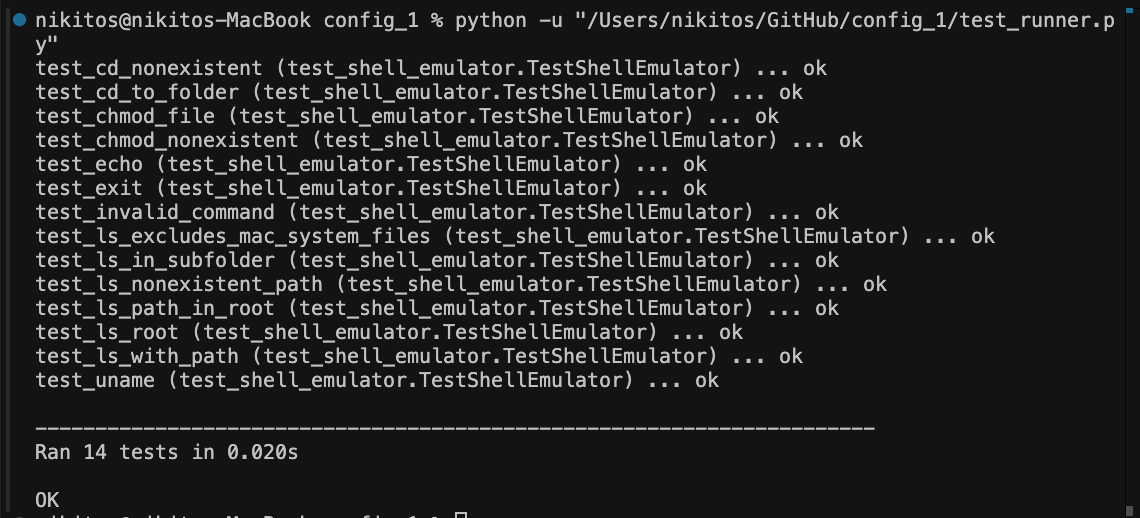
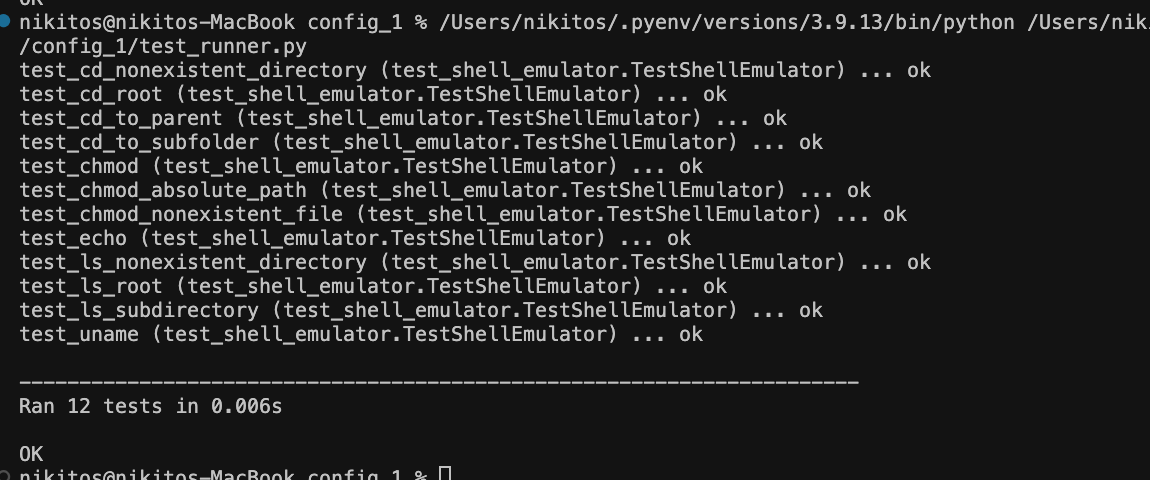
rewrite and rerun the tests

diff --git a/test_shell_emulator.py b/test_shell_emulator.py
@@ -2,20 +2,23 @@ import unittest
 import zipfile
 import yaml
 import os
-import shutil
 from shell_emulator import ShellEmulator
+
 
 class TestShellEmulator(unittest.TestCase):
     @classmethod
     def setUpClass(cls):
         cls.test_fs_zip = 'test_fs.zip'
         cls.config_file = 'test_config.yaml'
-        
+
+        # Создаём zip-файл с тестовой файловой системой
         with zipfile.ZipFile(cls.test_fs_zip, 'w') as zip_ref:
-            zip_ref.writestr('folder/file.txt', 'test content')
-            zip_ref.writestr('folder/subfolder/', '')
-            zip_ref.writestr('__MACOSX/', '')
-        
+            zip_ref.writestr('file1.txt', 'root file')  # Файл в корне
+            zip_ref.writestr('folder/file2.txt', 'folder file')  # Файл в папке
+            zip_ref.writestr('folder/subfolder/file3.txt', 'nested file')  # Файл в подкаталоге
+            zip_ref.writestr('folder/subfolder/', '')  # Пустая папка
+
+        # Создаём конфигурационный файл
         config_data = {
             'username': 'testuser',
             'fs_path': cls.test_fs_zip
@@ -36,55 +39,56 @@ class TestShellEmulator(unittest.TestCase):
             self.shell.exit()
         except FileNotFoundError:
             pass
-    
+
     def test_ls_root(self):
-        self.assertIn('folder', self.shell.ls())
-        self.assertNotIn('__MACOSX', self.shell.ls())
-    
-    def test_ls_with_path(self):
-        self.assertEqual(self.shell.ls('folder'), ['file.txt', 'subfolder'])
-    
-    def test_cd_to_folder(self):
+        expected = ['file1.txt', 'folder']
+        result = self.shell.ls()
+        self.assertEqual(result, expected)
+
+    def test_ls_subdirectory(self):
         self.shell.cd('folder')
-        self.assertEqual(self.shell.current_dir, '/folder')
-    
-    def test_cd_nonexistent(self):
+        expected = ['file2.txt', 'subfolder']
+        result = self.shell.ls()
+        self.assertEqual(result, expected)
+
+    def test_cd_to_subfolder(self):
+        self.shell.cd('folder/subfolder')
+        self.assertEqual(self.shell.current_dir, 'folder/subfolder')
+
+    def test_cd_to_parent(self):
+        self.shell.cd('folder/subfolder')
+        self.shell.cd('..')
+        self.assertEqual(self.shell.current_dir, 'folder')
+
+    def test_cd_root(self):
+        self.shell.cd('folder')
+        self.shell.cd('/')
+        self.assertEqual(self.shell.current_dir, '/')
+
+    def test_echo(self):
+        result = self.shell.echo('Hello', 'world!')
+        self.assertEqual(result, 'Hello world!')
+
+    def test_uname(self):
+        result = self.shell.uname()
+        self.assertEqual(result, 'UNIX-Like Emulator')
+
+    def test_chmod(self):
+        self.shell.chmod('rwx', 'folder/file2.txt')
+        self.assertEqual(self.shell.permissions['folder/file2.txt'], 'rwx')
+
+    def test_chmod_absolute_path(self):
+        self.shell.chmod('rw-', '/folder/file2.txt')
+        self.assertEqual(self.shell.permissions['folder/file2.txt'], 'rw-')
+
+    def test_ls_nonexistent_directory(self):
+        with self.assertRaises(FileNotFoundError):
+            self.shell.ls('nonexistent')
+
+    def test_cd_nonexistent_directory(self):
         with self.assertRaises(FileNotFoundError):
             self.shell.cd('nonexistent')
 
-    def test_echo(self):
-        self.assertEqual(self.shell.echo('Hello', 'World'), 'Hello World')
-
-    def test_chmod_file(self):
-        self.shell.chmod('755', 'folder/file.txt')
-        full_path = os.path.join(self.shell.fs_root, 'folder/file.txt')
-        self.assertEqual(oct(os.stat(full_path).st_mode)[-3:], '755')
-    
-    def test_chmod_nonexistent(self):
+    def test_chmod_nonexistent_file(self):
         with self.assertRaises(FileNotFoundError):
-            self.shell.chmod('755', 'nonexistent.txt')
-    
-    def test_uname(self):
-        self.assertEqual(self.shell.uname(), "UNIX-Like Emulator")
-    
-    def test_exit(self):
-        self.assertEqual(self.shell.exit(), "Exiting shell emulator.")
-    
-    def test_ls_excludes_mac_system_files(self):
-        self.assertNotIn('__MACOSX', self.shell.ls())
-    
-    def test_ls_nonexistent_path(self):
-        with self.assertRaises(FileNotFoundError):
-            self.shell.ls('nonexistent_path')
-    
-    def test_ls_in_subfolder(self):
-        self.shell.cd('folder')
-        self.assertEqual(self.shell.ls(), ['file.txt', 'subfolder'])
-
-    def test_ls_path_in_root(self):
-        self.assertEqual(self.shell.ls('/folder'), ['file.txt', 'subfolder'])
-
-    def test_invalid_command(self):
-        invalid_command = "unknowncmd"
-        output = f"Command not found: {invalid_command}"
-        self.assertEqual(output, f"Command not found: {invalid_command}")
+            self.shell.chmod('rwx', 'nonexistent.txt')
